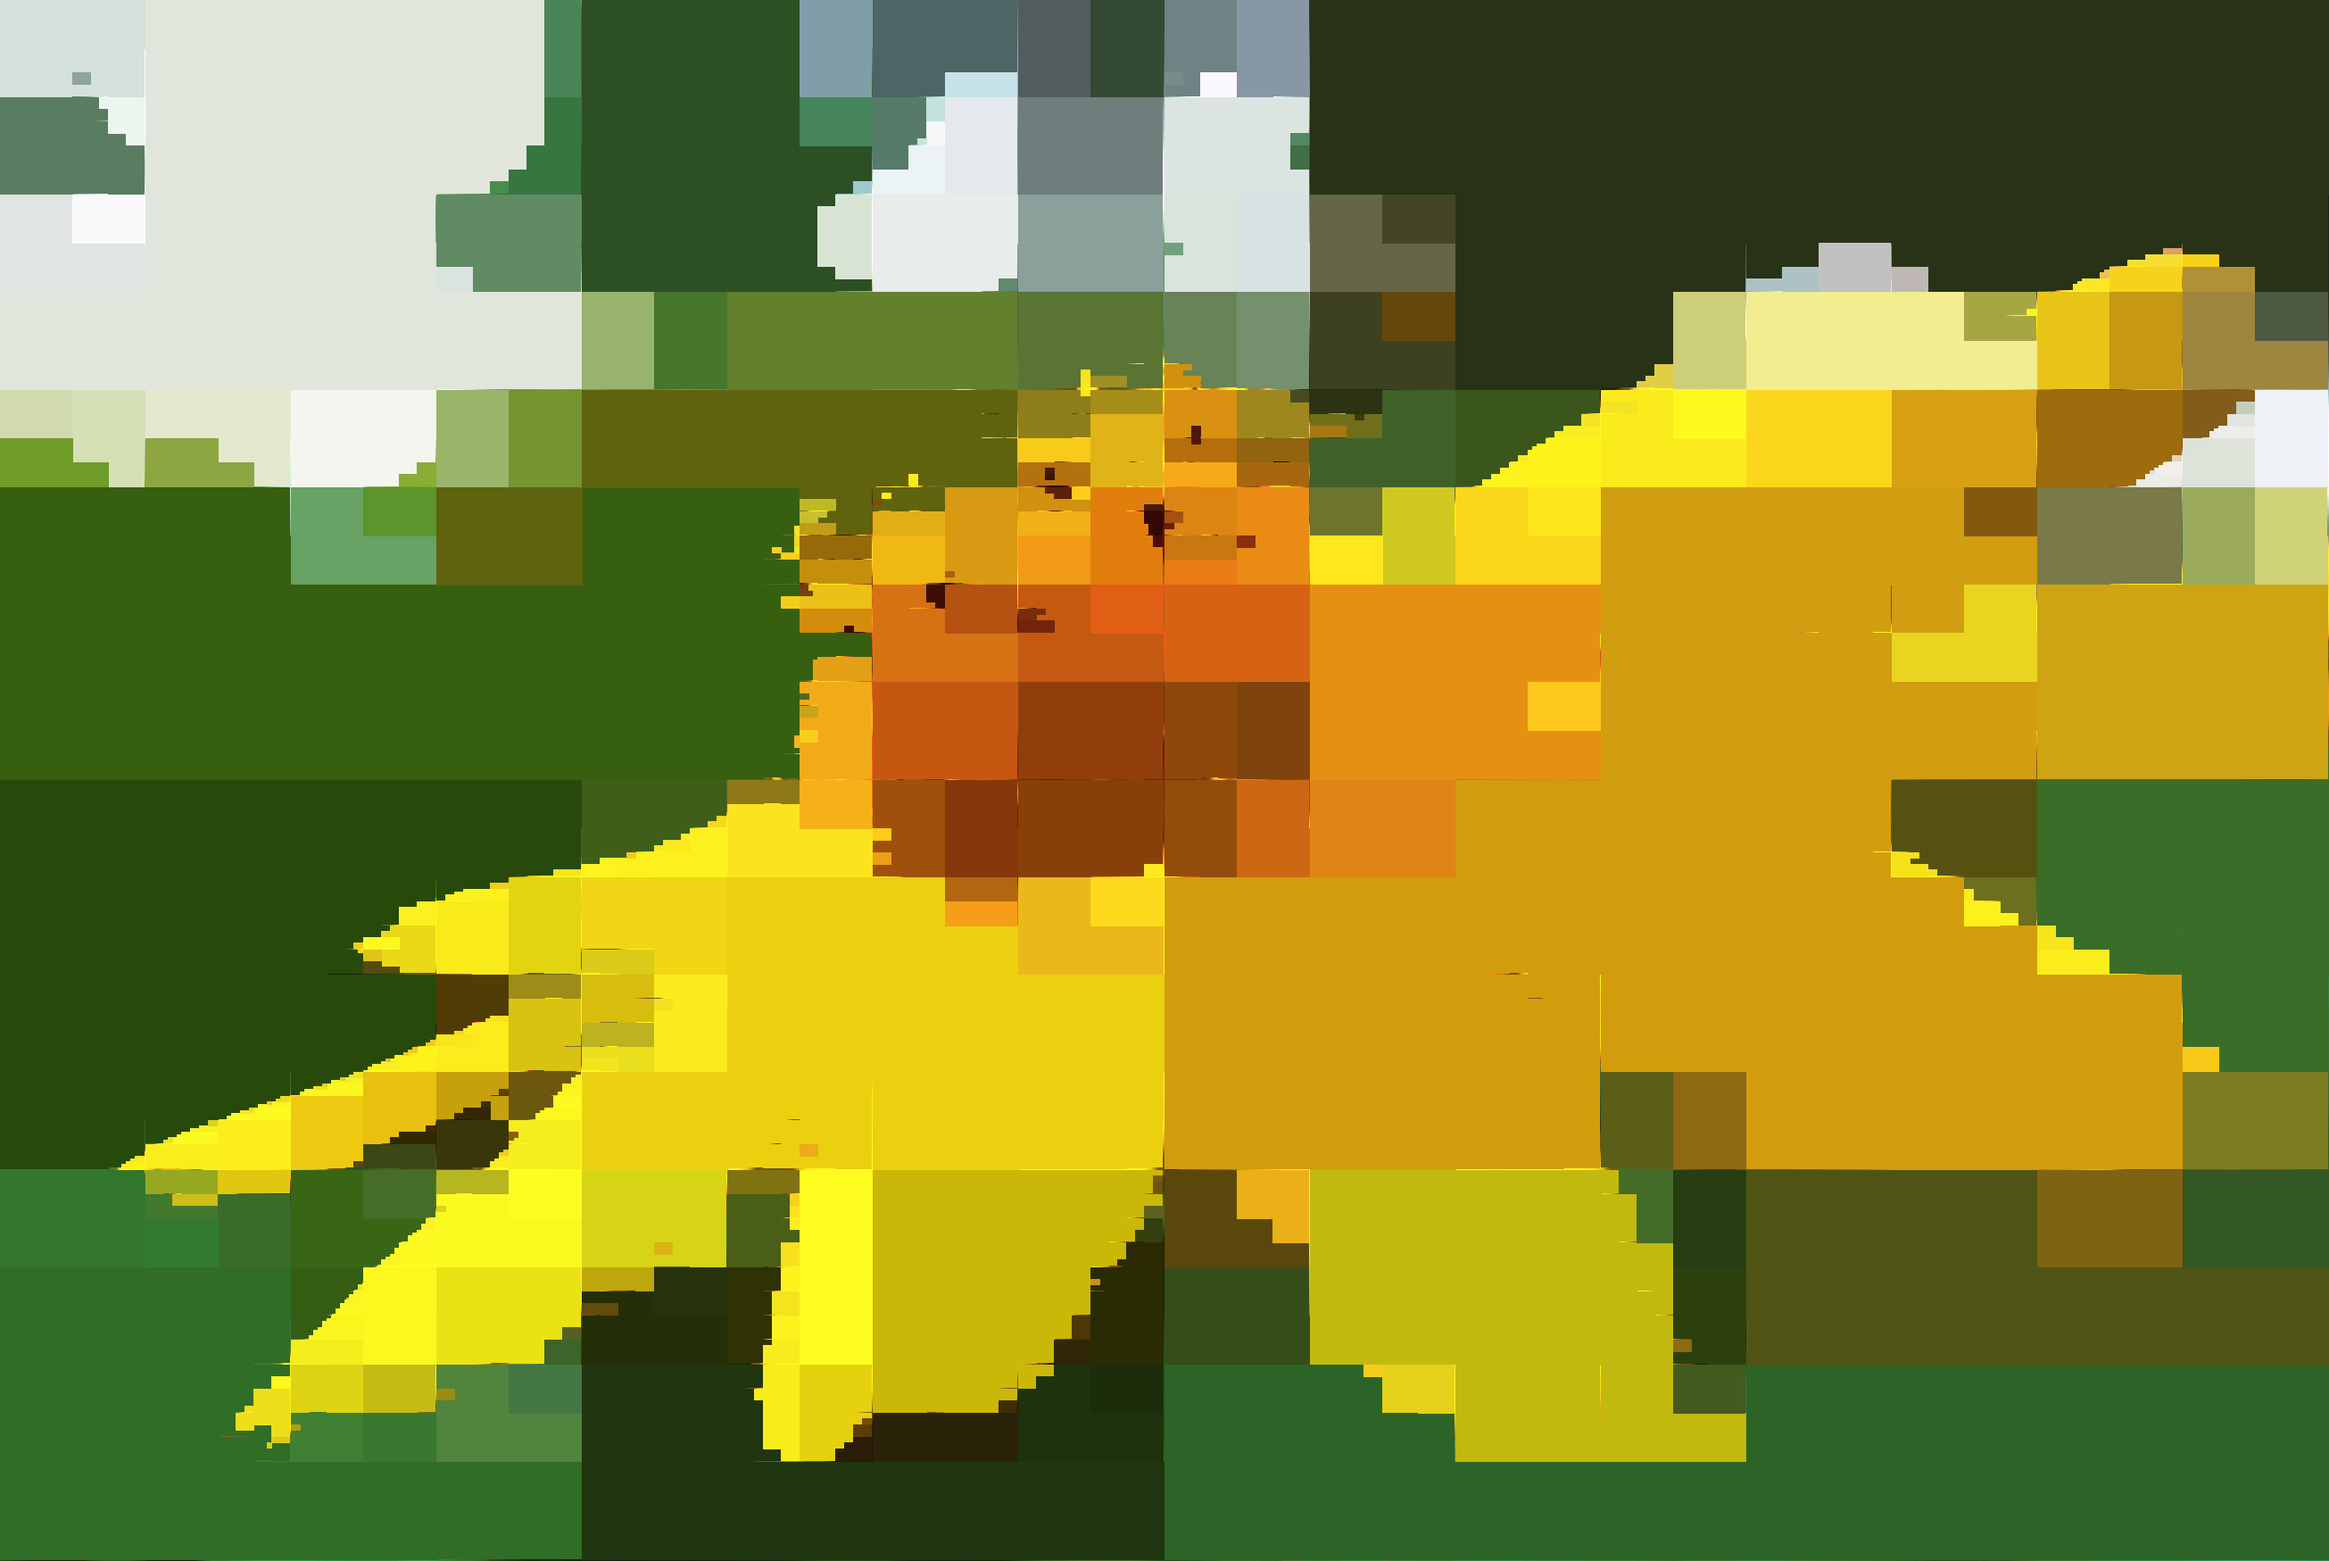
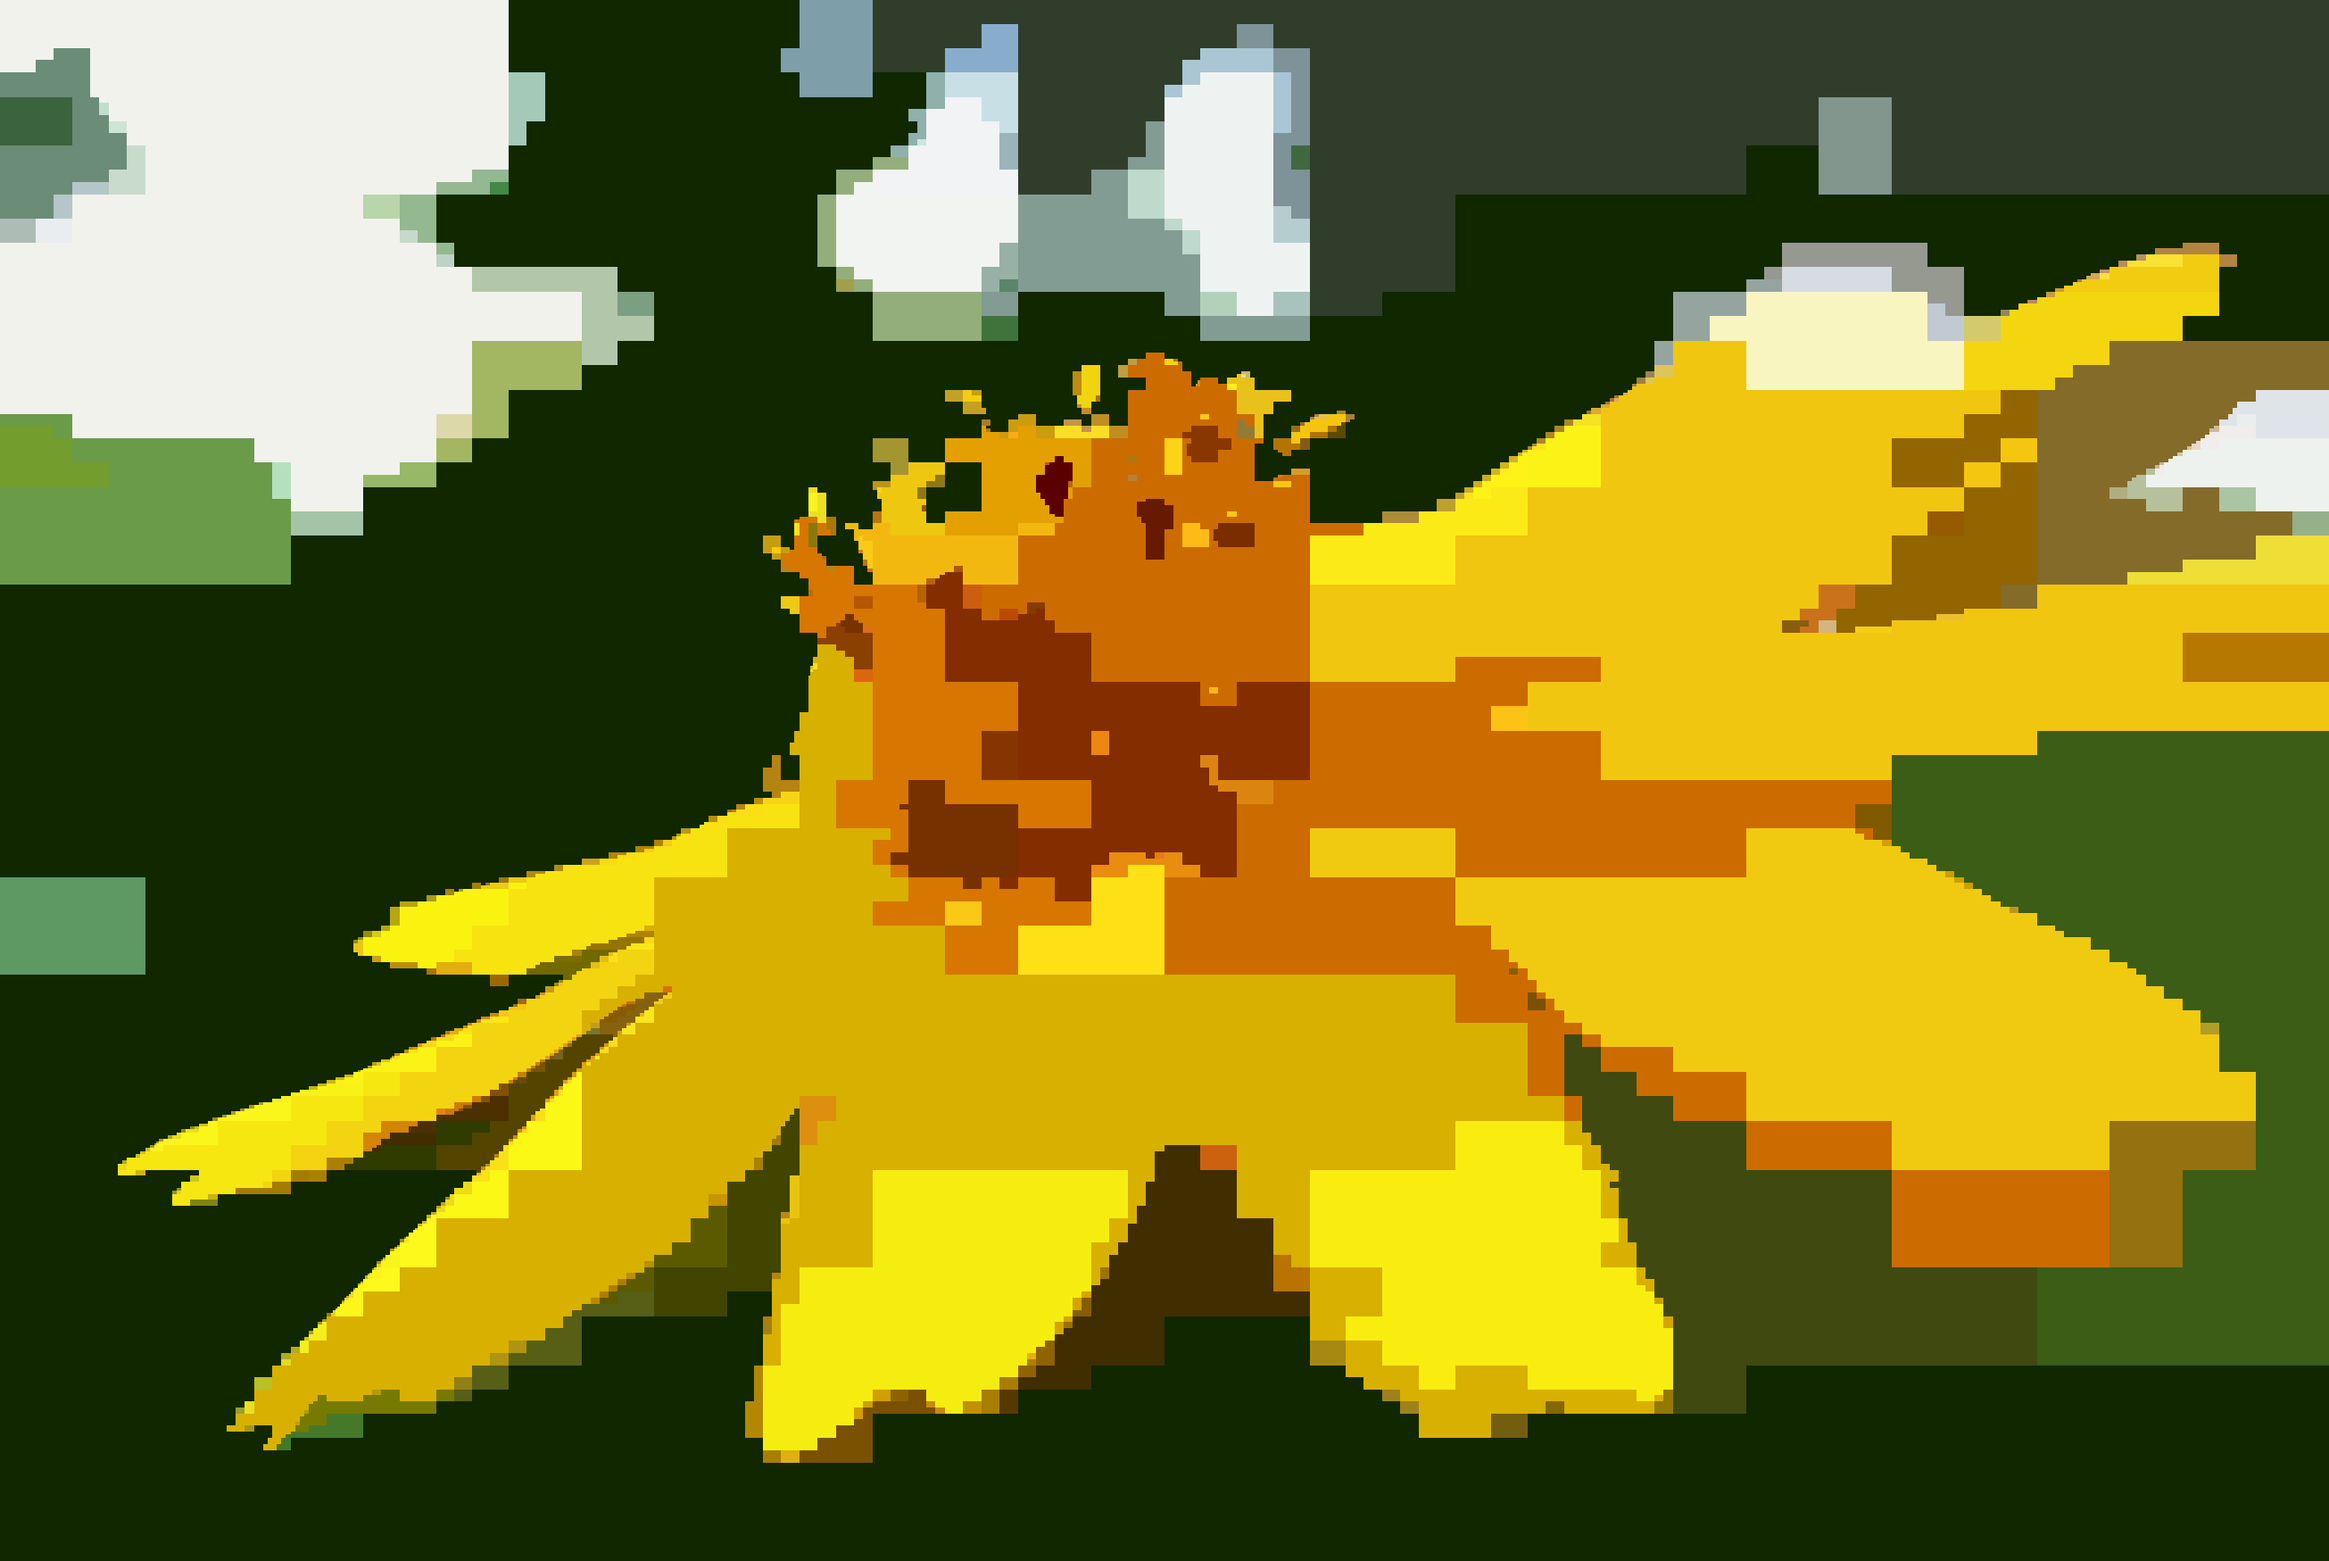
fixed edge bugs, added gamma correction

diff --git a/src/splitmerge.c b/src/splitmerge.c
@@ -2,7 +2,6 @@
 // March 16, 2020
 
 #include "splitmerge.h"
-#include "block.h"
 #include "image.h"
 #include "node.h"
 #include "group.h"
@@ -18,7 +17,7 @@ uint8_t random_255(void)
 	return rand() % 256;
 }
 
-void colorize(Image *img, Node *node)
+void colorize_nodes(Image *img, Node *node)
 {
 	uint32_t x, y, upper_x, upper_y;
 
@@ -27,9 +26,9 @@ void colorize(Image *img, Node *node)
 		upper_x = node->x + node->width;
 		upper_y = node->y + node->height;
 
-		for (x = node->x; x <= upper_x; x++)
+		for (x = node->x; x < upper_x; x++)
 		{
-			for (y = node->y; y <= upper_y; y++)
+			for (y = node->y; y < upper_y; y++)
 			{
 				set_rgb(img, x, y, node->red, node->green, node->blue);
 			}
@@ -37,14 +36,14 @@ void colorize(Image *img, Node *node)
 	}
 	else
 	{
-		colorize(img, node->top_left);
-		colorize(img, node->top_right);
-		colorize(img, node->bottom_left);
-		colorize(img, node->bottom_right);
+		colorize_nodes(img, node->top_left);
+		colorize_nodes(img, node->top_right);
+		colorize_nodes(img, node->bottom_left);
+		colorize_nodes(img, node->bottom_right);
 	}
 }
 
-void colorize_2(Image *img, Group *group)
+void colorize_groups(Image *img, Group *group)
 {
 	uint32_t x, y, upper_x, upper_y;
 
@@ -60,12 +59,12 @@ void colorize_2(Image *img, Group *group)
 		upper_x = element->x + element->width;
 		upper_y = element->y + element->height;
 
-		for (x = element->x; x <= upper_x; x++)
+		for (x = element->x; x < upper_x; x++)
 		{
-			for (y = element->y; y <= upper_y; y++)
+			for (y = element->y; y < upper_y; y++)
 			{
 				//set_rgb(img, x, y, red, green, blue);
-				set_rgb(img, x, y, group->red, group->green, group->blue);
+				set_rgb(img, x, y, gamma_reset(group->red), gamma_reset(group->green), gamma_reset(group->blue));
 			}
 		}
 
@@ -75,14 +74,15 @@ void colorize_2(Image *img, Group *group)
 
 void merge(Image *img, Node *tree, uint32_t tolerance)
 {
+	printf("Creating list\n");
 	Element *list = tree_to_list(NULL, tree), *temp;
-
+	printf("Creating groups\n");
 	Group *groups = create_groups(list, tolerance), *current_group = NULL;
-
+	printf("Colorizing\n");
 	current_group = groups;
 	while (current_group != NULL)
 	{
-		colorize_2(img, current_group);
+		colorize_groups(img, current_group);
 		current_group = current_group->next; 
 	}
 
@@ -94,9 +94,8 @@ void segment(Image *img, uint32_t tolerance)
 	printf("Splititng\n");
 	Node *root = create_tree(tolerance, img);
 
-	colorize(img, root);
 	printf("Merging\n");
-	merge(img, root, tolerance);
+	merge(img, root, tolerance / 2);
 
 	free_nodes(root);
 }

diff --git a/src/node.c b/src/node.c
@@ -43,14 +43,18 @@ uint32_t node_distance(Node *one, Node *two)
 void split_node(Node *node, uint32_t tolerance, Image *img)
 {
 	uint32_t half_width, half_height;
+	uint8_t offset_x, offset_y;
 
 	half_width = node->width / 2;
 	half_height = node->height / 2;
 
-	node->top_left     = add_node(node, node->x             , node->y              , half_width, half_height, tolerance, img);
-	node->top_right    = add_node(node, node->x + half_width, node->y              , half_width, half_height, tolerance, img);
-	node->bottom_left  = add_node(node, node->x             , node->y + half_height, half_width, half_height, tolerance, img);
-	node->bottom_right = add_node(node, node->x + half_width, node->y + half_height, half_width, half_height, tolerance, img);
+	offset_x = node->width % 2;
+	offset_y = node->height % 2;
+
+	node->top_left     = add_node(node, node->x                        , node->y                         , half_width           , half_height           , tolerance, img);
+	node->top_right    = add_node(node, node->x + half_width, node->y                         , half_width + offset_x, half_height           , tolerance, img);
+	node->bottom_left  = add_node(node, node->x                        , node->y + half_height, half_width           , half_height + offset_y, tolerance, img);
+	node->bottom_right = add_node(node, node->x + half_width, node->y + half_height, half_width + offset_x, half_height + offset_y, tolerance, img);
 }
 
 Node *add_node(Node *parent, uint32_t x, uint32_t y, uint32_t width, uint32_t height, uint32_t tolerance, Image *img)
@@ -100,16 +104,19 @@ int8_t is_node_homogeneous(Node *node, uint32_t tolerance, Image *img)
 		for (y = node->y; y < upper_y; y++)
 		{
 			rgb = get_rgb(img, x, y);
-			current_distance = rgb_distance(rgb);
+			if (rgb != NULL)
+			{
+				current_distance = rgb_distance(rgb);
 
-			red += rgb[0];
-			green += rgb[1];
-			blue += rgb[2];
+				red += gamma_correct(rgb[0]);
+				green += gamma_correct(rgb[1]);
+				blue += gamma_correct(rgb[2]);
 
-			if (min_distance > current_distance) min_distance = current_distance;
-			if (max_distance < current_distance) max_distance = current_distance;
+				if (min_distance > current_distance) min_distance = current_distance;
+				if (max_distance < current_distance) max_distance = current_distance;
 
-			count++;
+				count++;
+			}
 		}
 	}
 

diff --git a/src/group.c b/src/group.c
@@ -58,9 +58,6 @@ Element *tree_to_list(Element *first, Node *root)
 
 int8_t touching(Element *one, Element *two)
 {
-	//int8_t first = (one->x <= two->x && two->x <= one->x + one->width) || (one->x <= two->x + two->width && two->x + two->width <= one->x + one->width);
-	//return first && (one->y == two->y || one->y + one->height == two->y);
-
 	if (one->y == two->y || one->y == two->height + two->y)
 	{
 		return ((one->x >= two->x && one->x <= two->x + two->width) || (two->x >= one->x && two->x <= one->x + one->width));
@@ -71,9 +68,6 @@ int8_t touching(Element *one, Element *two)
 	}
 
 	return 0;
-
-	//return (one->x <= two->x && two->x <= one->x + one->width) || (one->x <= two->x + two->width && two->x + two->width <= one->x + one->width) && (one->y == two->y || one->y + one->height == two->y);
-	//return ((one->x <= two->x || one->y <= one->y) && (two->x <= one->x + one->width || two->y <= one->y + one->height));
 }
 
 uint32_t element_distance(Element *element, Group *group)

diff --git a/include/splitmerge.h b/include/splitmerge.h
@@ -6,13 +6,16 @@
 #define _SPLITMERGE_H
 
 #include "node.h"
+#include "group.h"
 
 #include <png.h>
 #include <stdint.h>
 
 uint8_t random_255(void);
 
-void colorize(Image *img, Node *node);
+void colorize_nodes(Image *img, Node *node);
+void colorize_groups(Image *img, Group *group);
+
 void segment(Image *img, uint32_t tolerance);
 
 #endif

diff --git a/README.md b/README.md
@@ -1,4 +1,4 @@
-# Split-Merge-C
+# Split and Merge Segmentation
 Implementation of split and merge segmentation in C.
 
 ### How to Use
@@ -11,6 +11,13 @@ Compile: `./build.sh`
 Run: `./bin/main [source filename] [output filename] [tolerance]`
 
 ### Examples
+Example of the split and merge steps using a tolerance of 200:
+
+Split | Merge
+:----:|:-----:
+![split](images/split.png) | ![merge](images/t200.png)
+
+Example of different tolerance values:
 
 source | 50 | 100 | 150 | 200 | 250
 :-----:|:--:|:---:|:---:|:---:|:--:
